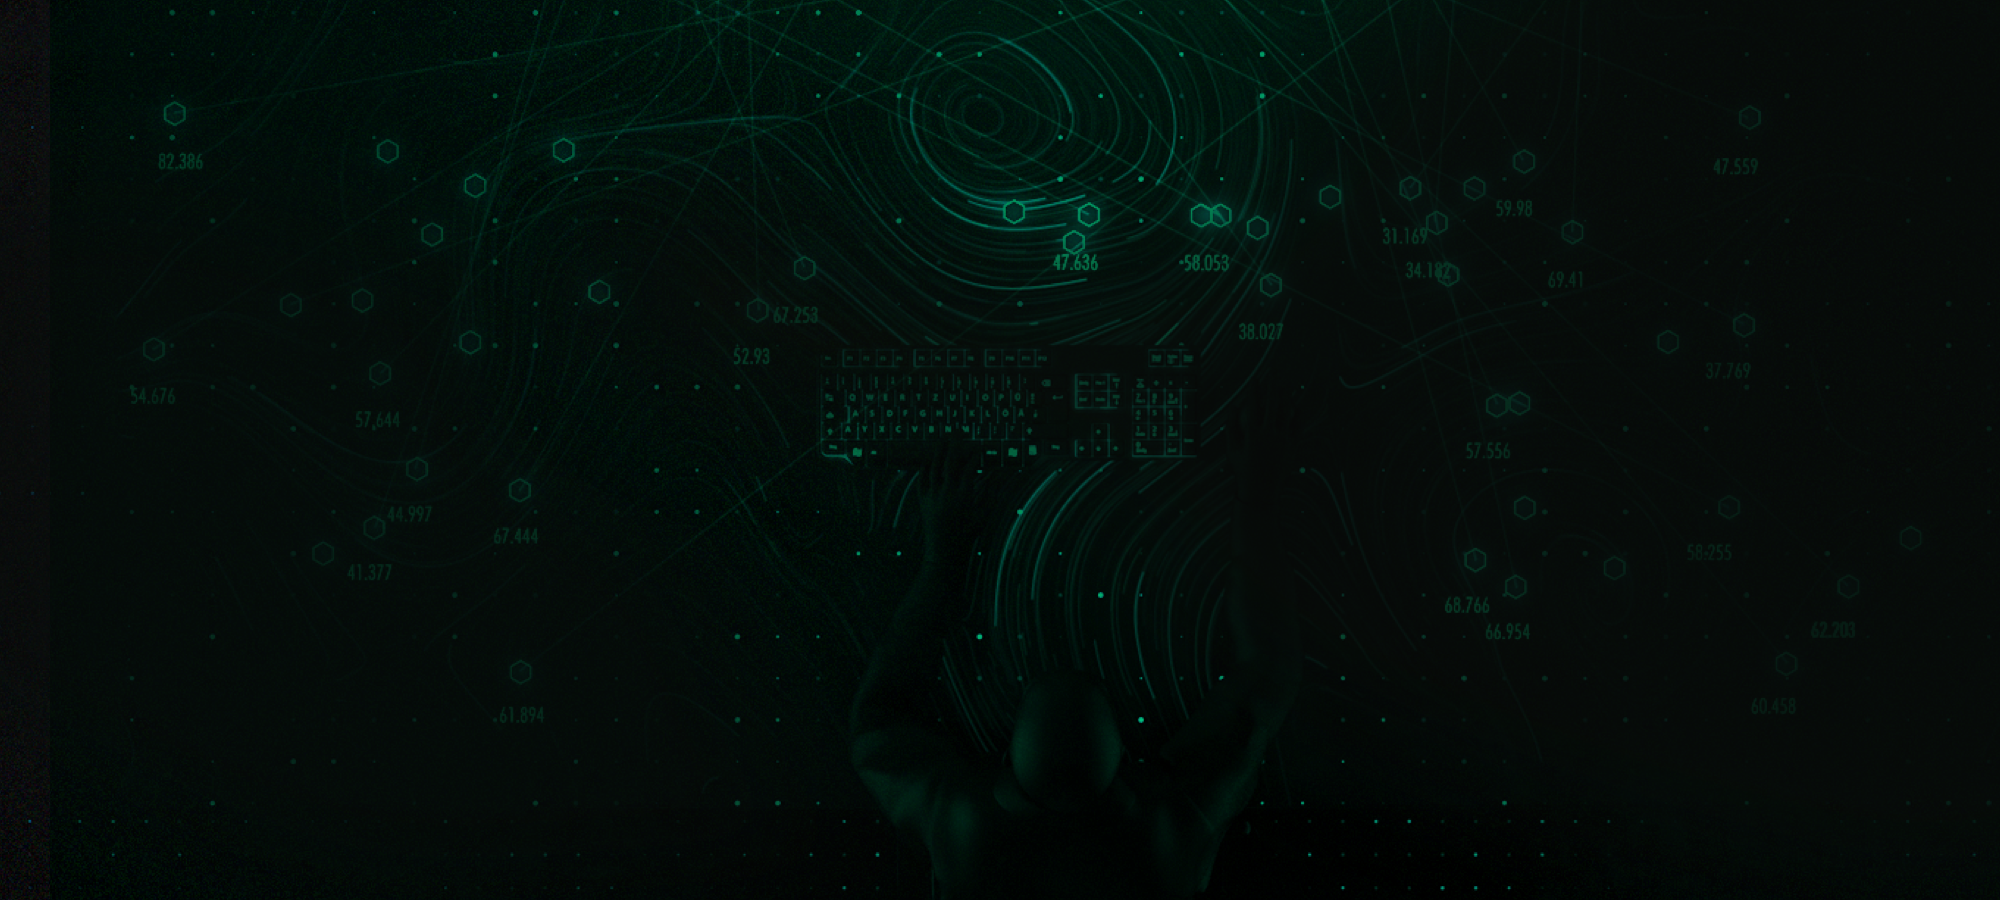
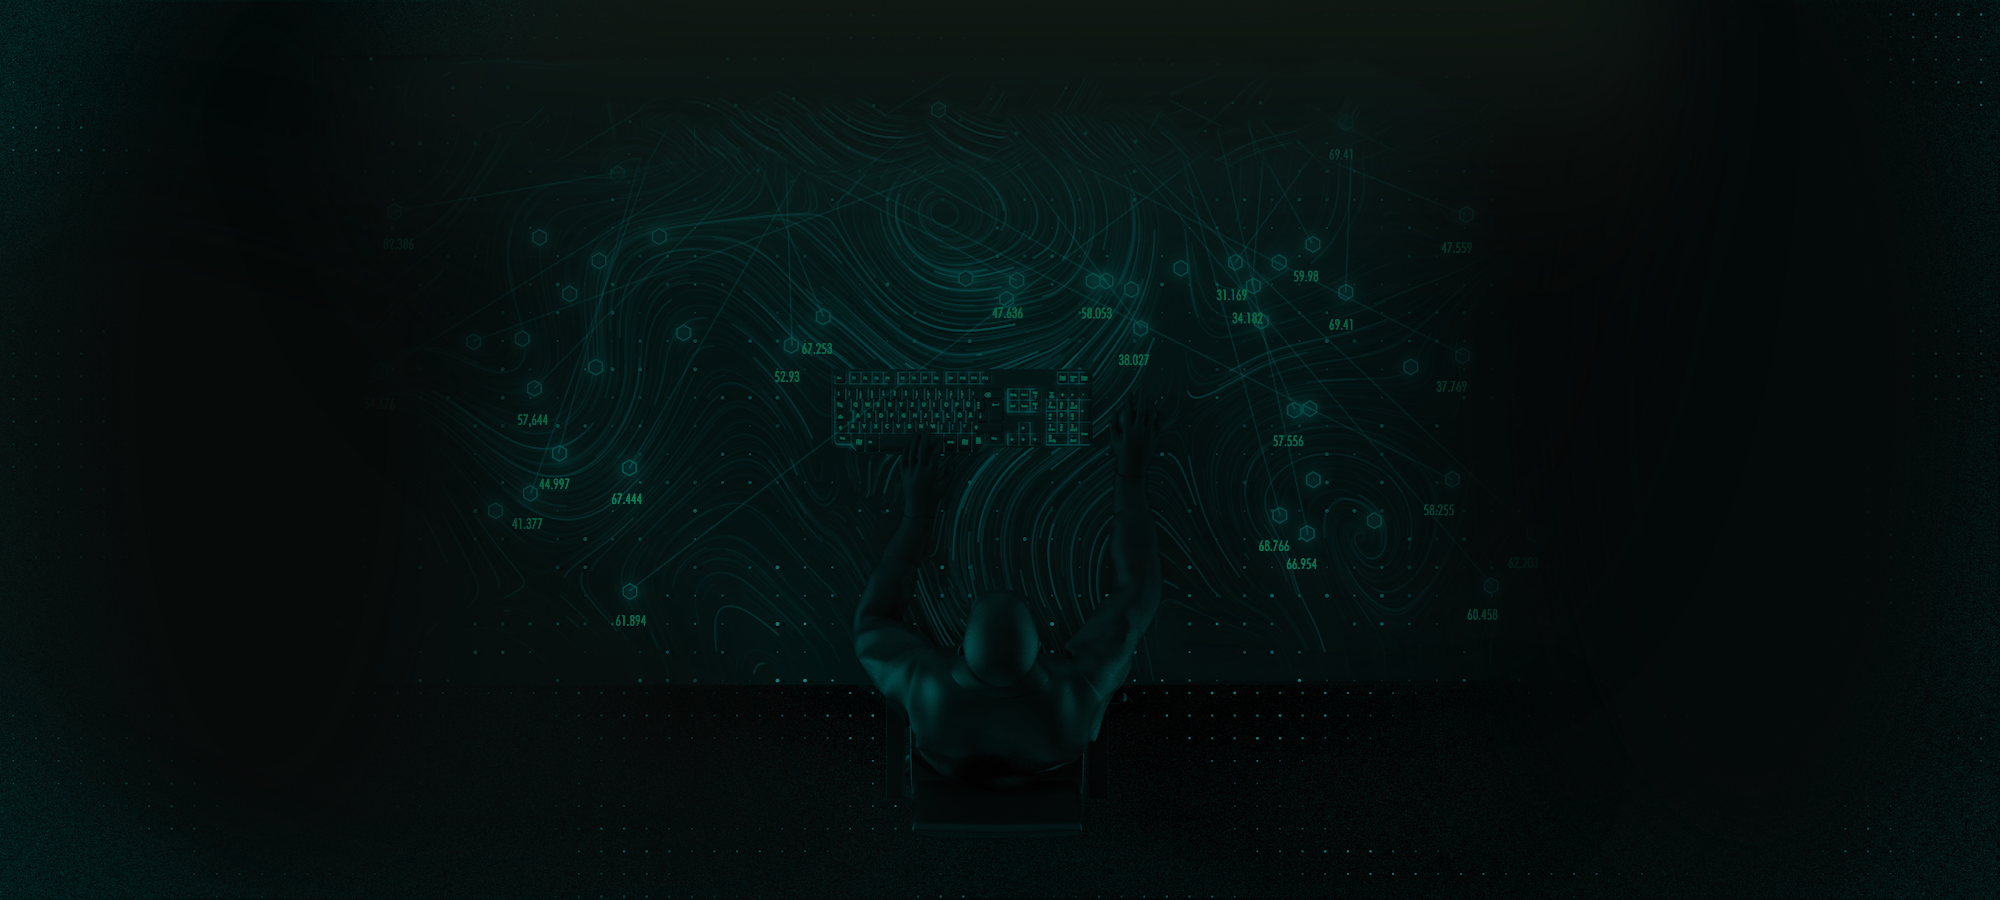
所有箭头都动&换了两个背景图

diff --git a/css/pt.css b/css/pt.css
@@ -34,8 +34,60 @@ a {
 
 .icon_next {
     position: absolute;
-    bottom: 50px;
+    /* bottom: 50px; */
     transform: translateX(-50%);
+    -webkit-animation: sway 1.2s infinite linear;
+    -moz-animation: sway 1.2s infinite linear;
+    -o-animation: sway 1.2s infinite linear;
+    animation: sway 1.2s infinite linear;
+}
+
+@-webkit-keyframes sway {
+    0% {
+        bottom: 30px;
+    }
+    50% {
+        bottom: 35px;
+    }
+    100% {
+        bottom: 30px;
+    }
+}
+
+@-moz-keyframes sway {
+    0% {
+        bottom: 30px;
+    }
+    50% {
+        bottom: 35px;
+    }
+    100% {
+        bottom: 30px;
+    }
+}
+
+@-o-keyframes sway {
+    0% {
+        bottom: 30px;
+    }
+    50% {
+        bottom: 35px;
+    }
+    100% {
+        bottom: 30px;
+    }
+}
+
+@keyframes sway {
+    0% {
+        bottom: 30px;
+    }
+    50% {
+        bottom: 35px;
+    }
+    100% {
+        bottom: 30px;
+    }
 }
 
 .tit {
@@ -163,58 +215,6 @@ a {
     width: 26px;
     height: 35.9px;
     background: url("../images/icon_mouse.png") no-repeat 50% 50%;
-    -webkit-animation: sway 1.2s infinite linear;
-    -moz-animation: sway 1.2s infinite linear;
-    -o-animation: sway 1.2s infinite linear;
-    animation: sway 1.2s infinite linear;
-}
-
-@-webkit-keyframes sway {
-    0% {
-        bottom: 30px;
-    }
-    50% {
-        bottom: 35px;
-    }
-    100% {
-        bottom: 30px;
-    }
-}
-
-@-moz-keyframes sway {
-    0% {
-        bottom: 30px;
-    }
-    50% {
-        bottom: 35px;
-    }
-    100% {
-        bottom: 30px;
-    }
-}
-
-@-o-keyframes sway {
-    0% {
-        bottom: 30px;
-    }
-    50% {
-        bottom: 35px;
-    }
-    100% {
-        bottom: 30px;
-    }
-}
-
-@keyframes sway {
-    0% {
-        bottom: 30px;
-    }
-    50% {
-        bottom: 35px;
-    }
-    100% {
-        bottom: 30px;
-    }
 }
 
 /* 服务 */
@@ -555,6 +555,10 @@ a {
     }
 
     /* 联系我们 */
+    #section4 {
+        background-image: url("../images/bg_service_h5.png");
+    }
+
     #section4 .tit {
         height: 40px;
         width: 110px;
